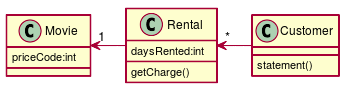
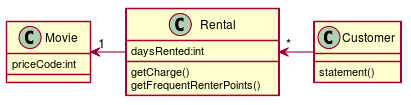
第１章　リファクタリングー最初の例 #EFJ-5
・statementメソッドの分割、再配置 Step7

diff --git a/src/main/java/refactoring/videorental/Customer.java b/src/main/java/refactoring/videorental/Customer.java
@@ -26,12 +26,7 @@ class Customer {
         while(rentals.hasMoreElements()) {
             double thisAmount = 0;
             Rental each = (Rental) rentals.nextElement();
-
-            //レンタルポイントを加算
-            frequentRenterPoints ++;
-            //新作を二日以上借りた場合はボーナスポイント
-            if((each.getMovie().getPriceCode() == Movie.NEW_RELEASE) &&
-                    each.getDaysRented() > 1) frequentRenterPoints ++;
+            frequentRenterPoints += each.getFrequentRenterPoints();
 
             //この貸し出しに関する数値の表示
             result += "\t" + each.getMovie().getTitle() + "\t" +

diff --git a/src/main/java/refactoring/videorental/Rental.java b/src/main/java/refactoring/videorental/Rental.java
@@ -32,4 +32,11 @@ class Rental {
         }
         return result;
     }
+
+    int getFrequentRenterPoints() {
+        if((getMovie().getPriceCode() == Movie.NEW_RELEASE) && getDaysRented() > 1)
+            return 2;
+        else
+            return 1;
+    }
 }

diff --git a/docs/refactoring.md b/docs/refactoring.md
@@ -7,7 +7,7 @@
   
 顧客が借りたビデオのレンタル料金を計算して計算書を印刷する。
 
-![](./assets/970e29cd95d34abd689ef29ef61f428b0.png?0.6385095965895238)  
+![](./assets/970e29cd95d34abd689ef29ef61f428b0.png?0.35933415510442623)  
   
 ## 仕様
   
@@ -26,17 +26,18 @@
 + [x] ~~新作ビデオのレンタルテスト作成~~
 + [ ] **statementメソッドの分割、再配置**
 + [x] ~~amountForメソッドの移動~~
++ [x] ~~レンタルポイント計算部分の抽出~~
   
 ### クラス図
   
 
-![](./assets/970e29cd95d34abd689ef29ef61f428b1.png?0.49006925740644536)  
+![](./assets/970e29cd95d34abd689ef29ef61f428b1.png?0.23294740843104766)  
   
 ### シーケンス図
   
 statement(計算書生成)メソッドのシーケンス図
 
-![](./assets/970e29cd95d34abd689ef29ef61f428b2.png?0.03053620541712121)  
+![](./assets/970e29cd95d34abd689ef29ef61f428b2.png?0.706523076967948)  
 ## 実装
   
 ### `CustomerTest.java`
@@ -169,6 +170,13 @@ class Rental {
         }
         return result;
     }
+  
+    int getFrequentRenterPoints() {
+        if((getMovie().getPriceCode() == Movie.NEW_RELEASE) && getDaysRented() > 1)
+            return 2;
+        else
+            return 1;
+    }
 }
   
 ```  
@@ -203,12 +211,7 @@ class Customer {
         while(rentals.hasMoreElements()) {
             double thisAmount = 0;
             Rental each = (Rental) rentals.nextElement();
-  
-            //レンタルポイントを加算
-            frequentRenterPoints ++;
-            //新作を二日以上借りた場合はボーナスポイント
-            if((each.getMovie().getPriceCode() == Movie.NEW_RELEASE) &&
-                    each.getDaysRented() > 1) frequentRenterPoints ++;
+            frequentRenterPoints += each.getFrequentRenterPoints();
   
             //この貸し出しに関する数値の表示
             result += "\t" + each.getMovie().getTitle() + "\t" +

diff --git a/docs/src/refacotring.md b/docs/src/refacotring.md
@@ -37,6 +37,7 @@ rectangle VedioRental {
 + [x] ~~新作ビデオのレンタルテスト作成~~
 + [ ] **statementメソッドの分割、再配置**
 + [x] ~~amountForメソッドの移動~~
++ [x] ~~レンタルポイント計算部分の抽出~~
 
 ### クラス図
 ```puml
@@ -46,6 +47,7 @@ class Movie {
 class Rental {
   daysRented:int
   getCharge()
+  getFrequentRenterPoints()
 }
 class Customer {
   statement()
@@ -62,9 +64,14 @@ statement(計算書生成)メソッドのシーケンス図
    activate aCustomer
        aCustomer -> aCustomer :*[for all rental]
        activate aCustomer
-           aCustomer -> aRental :getMovie
-           aCustomer -> aMovie :getPriceCode
-           aCustomer -> aRental :getDaysRented
+           aCustomer -> aRental :getCharge
+           activate aRental
+               aRental -> aMovie :getPriceCode   
+           deactivate aRental           
+           aCustomer -> aRental :getFrequentRenterPoints
+           activate aRental
+               aRental -> aMovie :getPriceCode   
+           deactivate aRental                      
        deactivate aCustomer
    deactivate aCustomer
 @enduml
